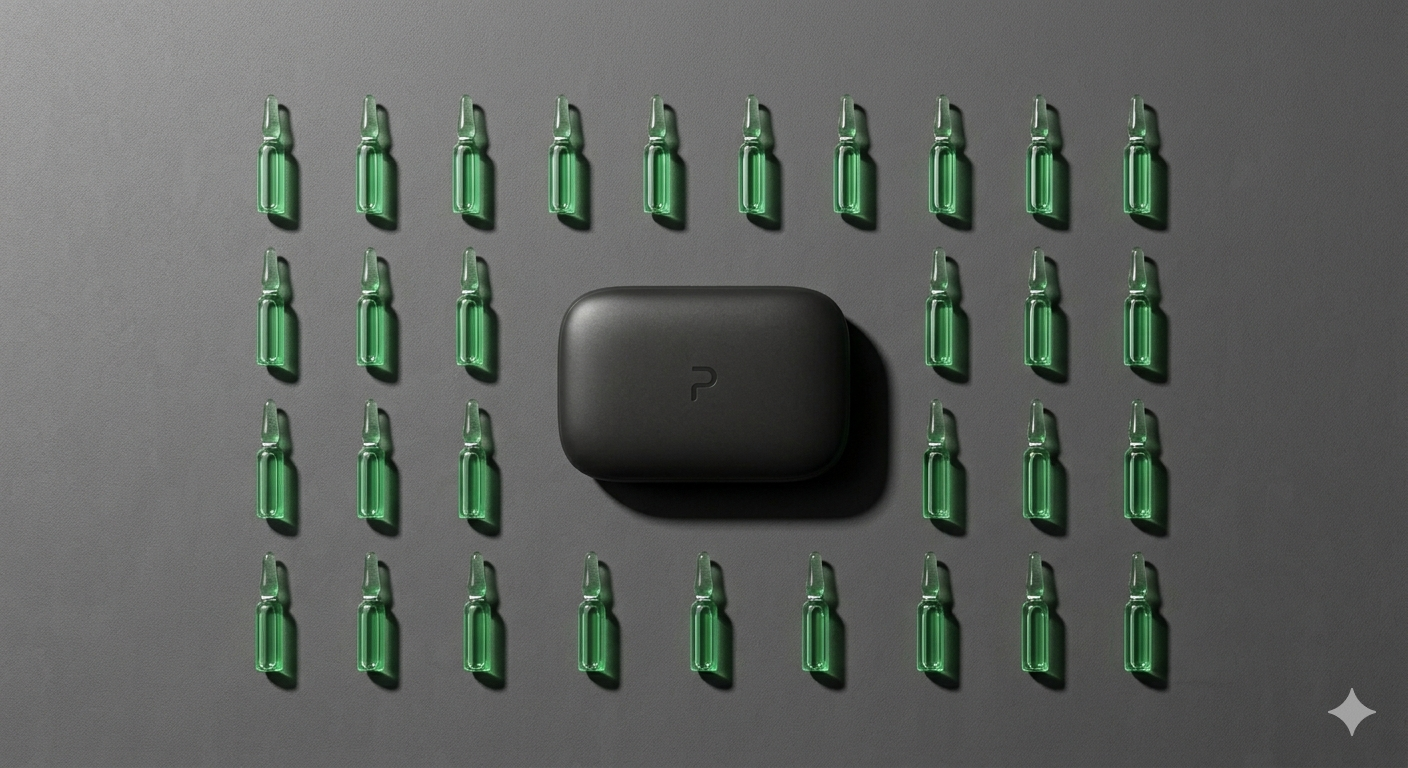
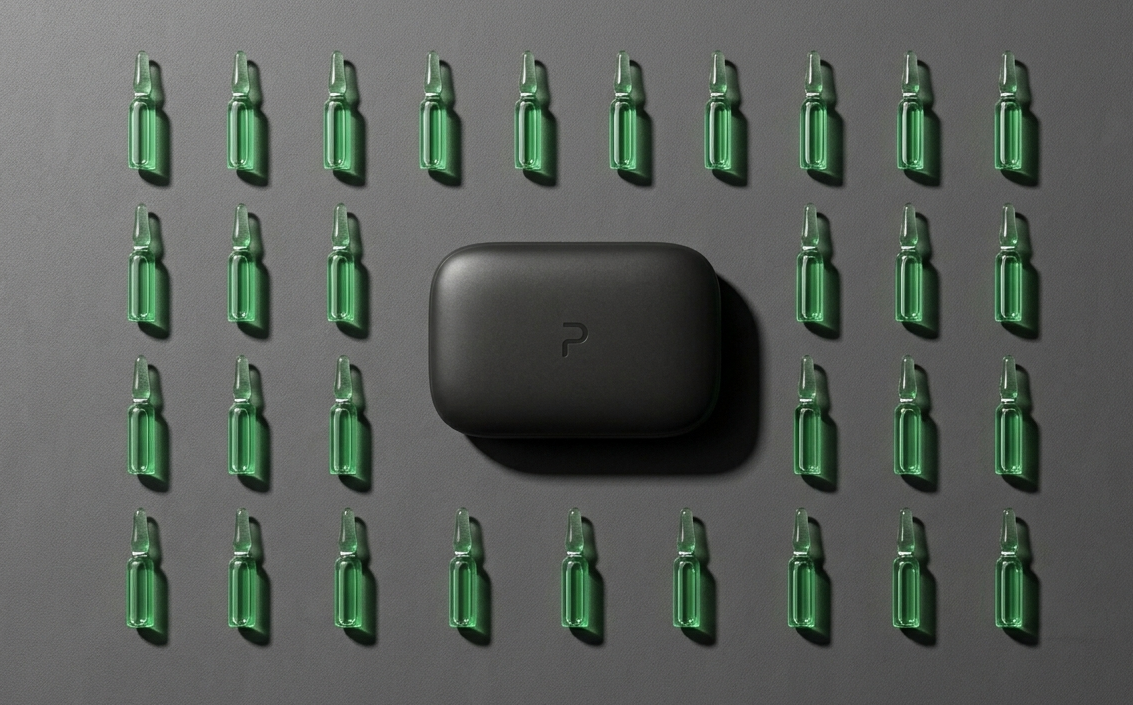
Replace kit image with new version, center object-position

diff --git a/index.html b/index.html
@@ -619,7 +619,7 @@ footer{background:var(--bg);border-top:1px solid var(--border);padding:32px 40px
 .protocol-finder-banner-btn:hover{opacity:0.85;}
 
 .pods-kit-image{max-width:960px;margin:0 auto 36px;border-radius:16px;overflow:hidden;}
-.pods-kit-image img{width:100%;height:auto;max-height:400px;object-fit:cover;object-position:left top;display:block;border-radius:16px;}
+.pods-kit-image img{width:100%;height:auto;max-height:400px;object-fit:cover;object-position:center center;display:block;border-radius:16px;}
 @media(max-width:768px){.pods-kit-image img{max-height:240px;border-radius:12px;}.pods-kit-image{margin-bottom:24px;}}
 @media(max-width:600px){.protocol-finder-banner{flex-direction:column;align-items:flex-start;}.protocol-finder-banner-btn{width:100%;text-align:center;display:block;padding:13px;}}
 
